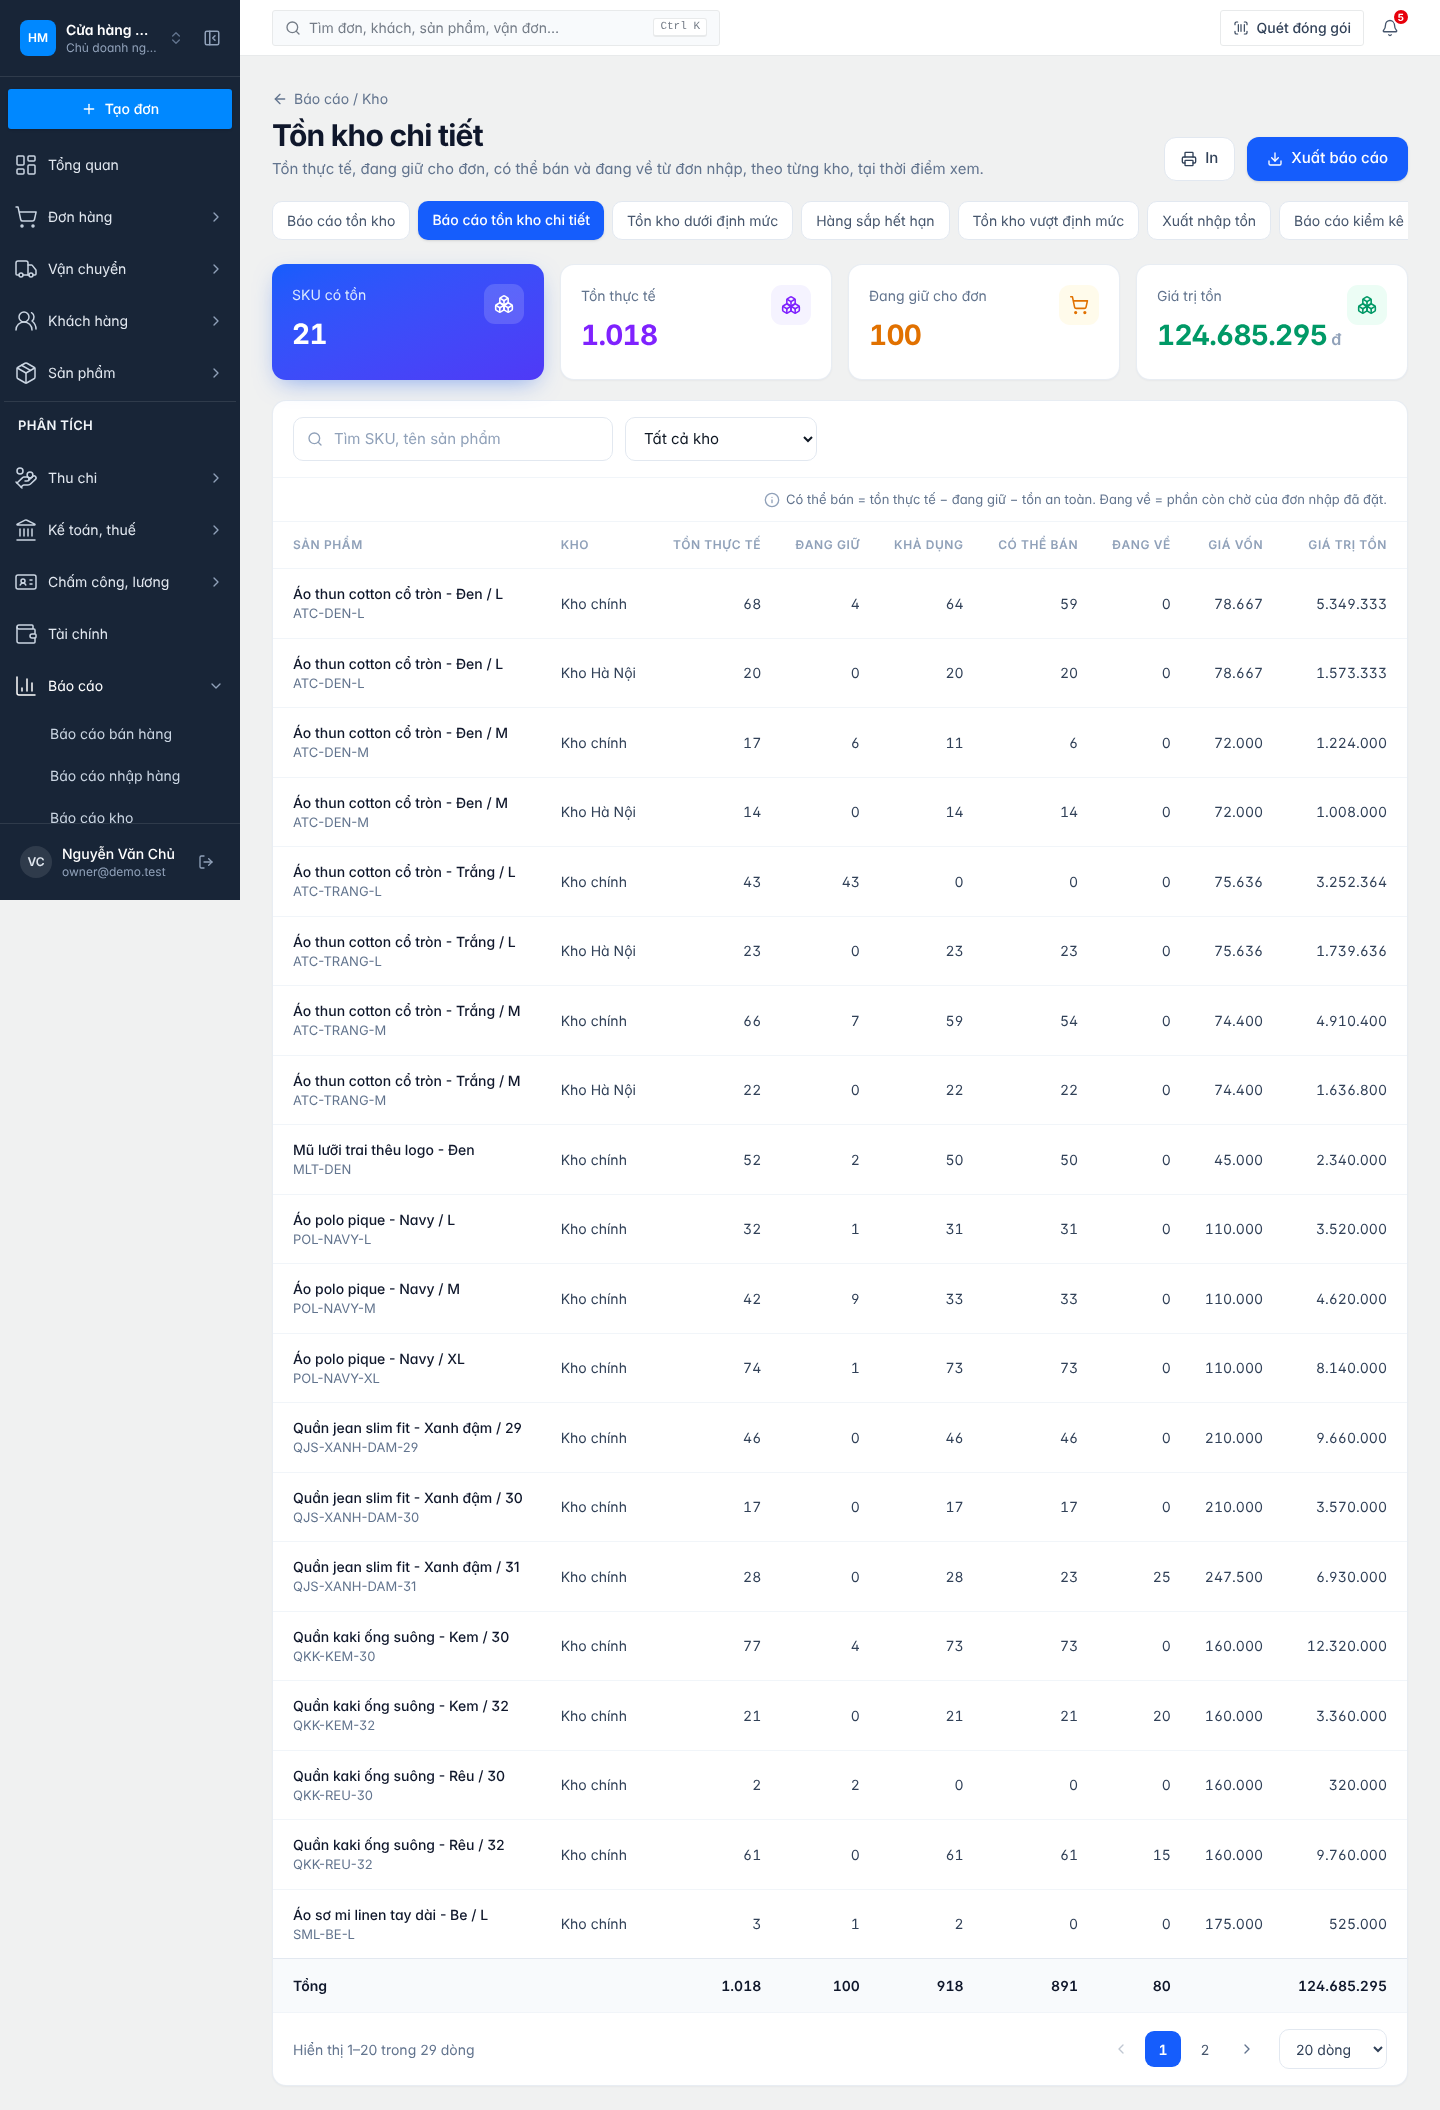
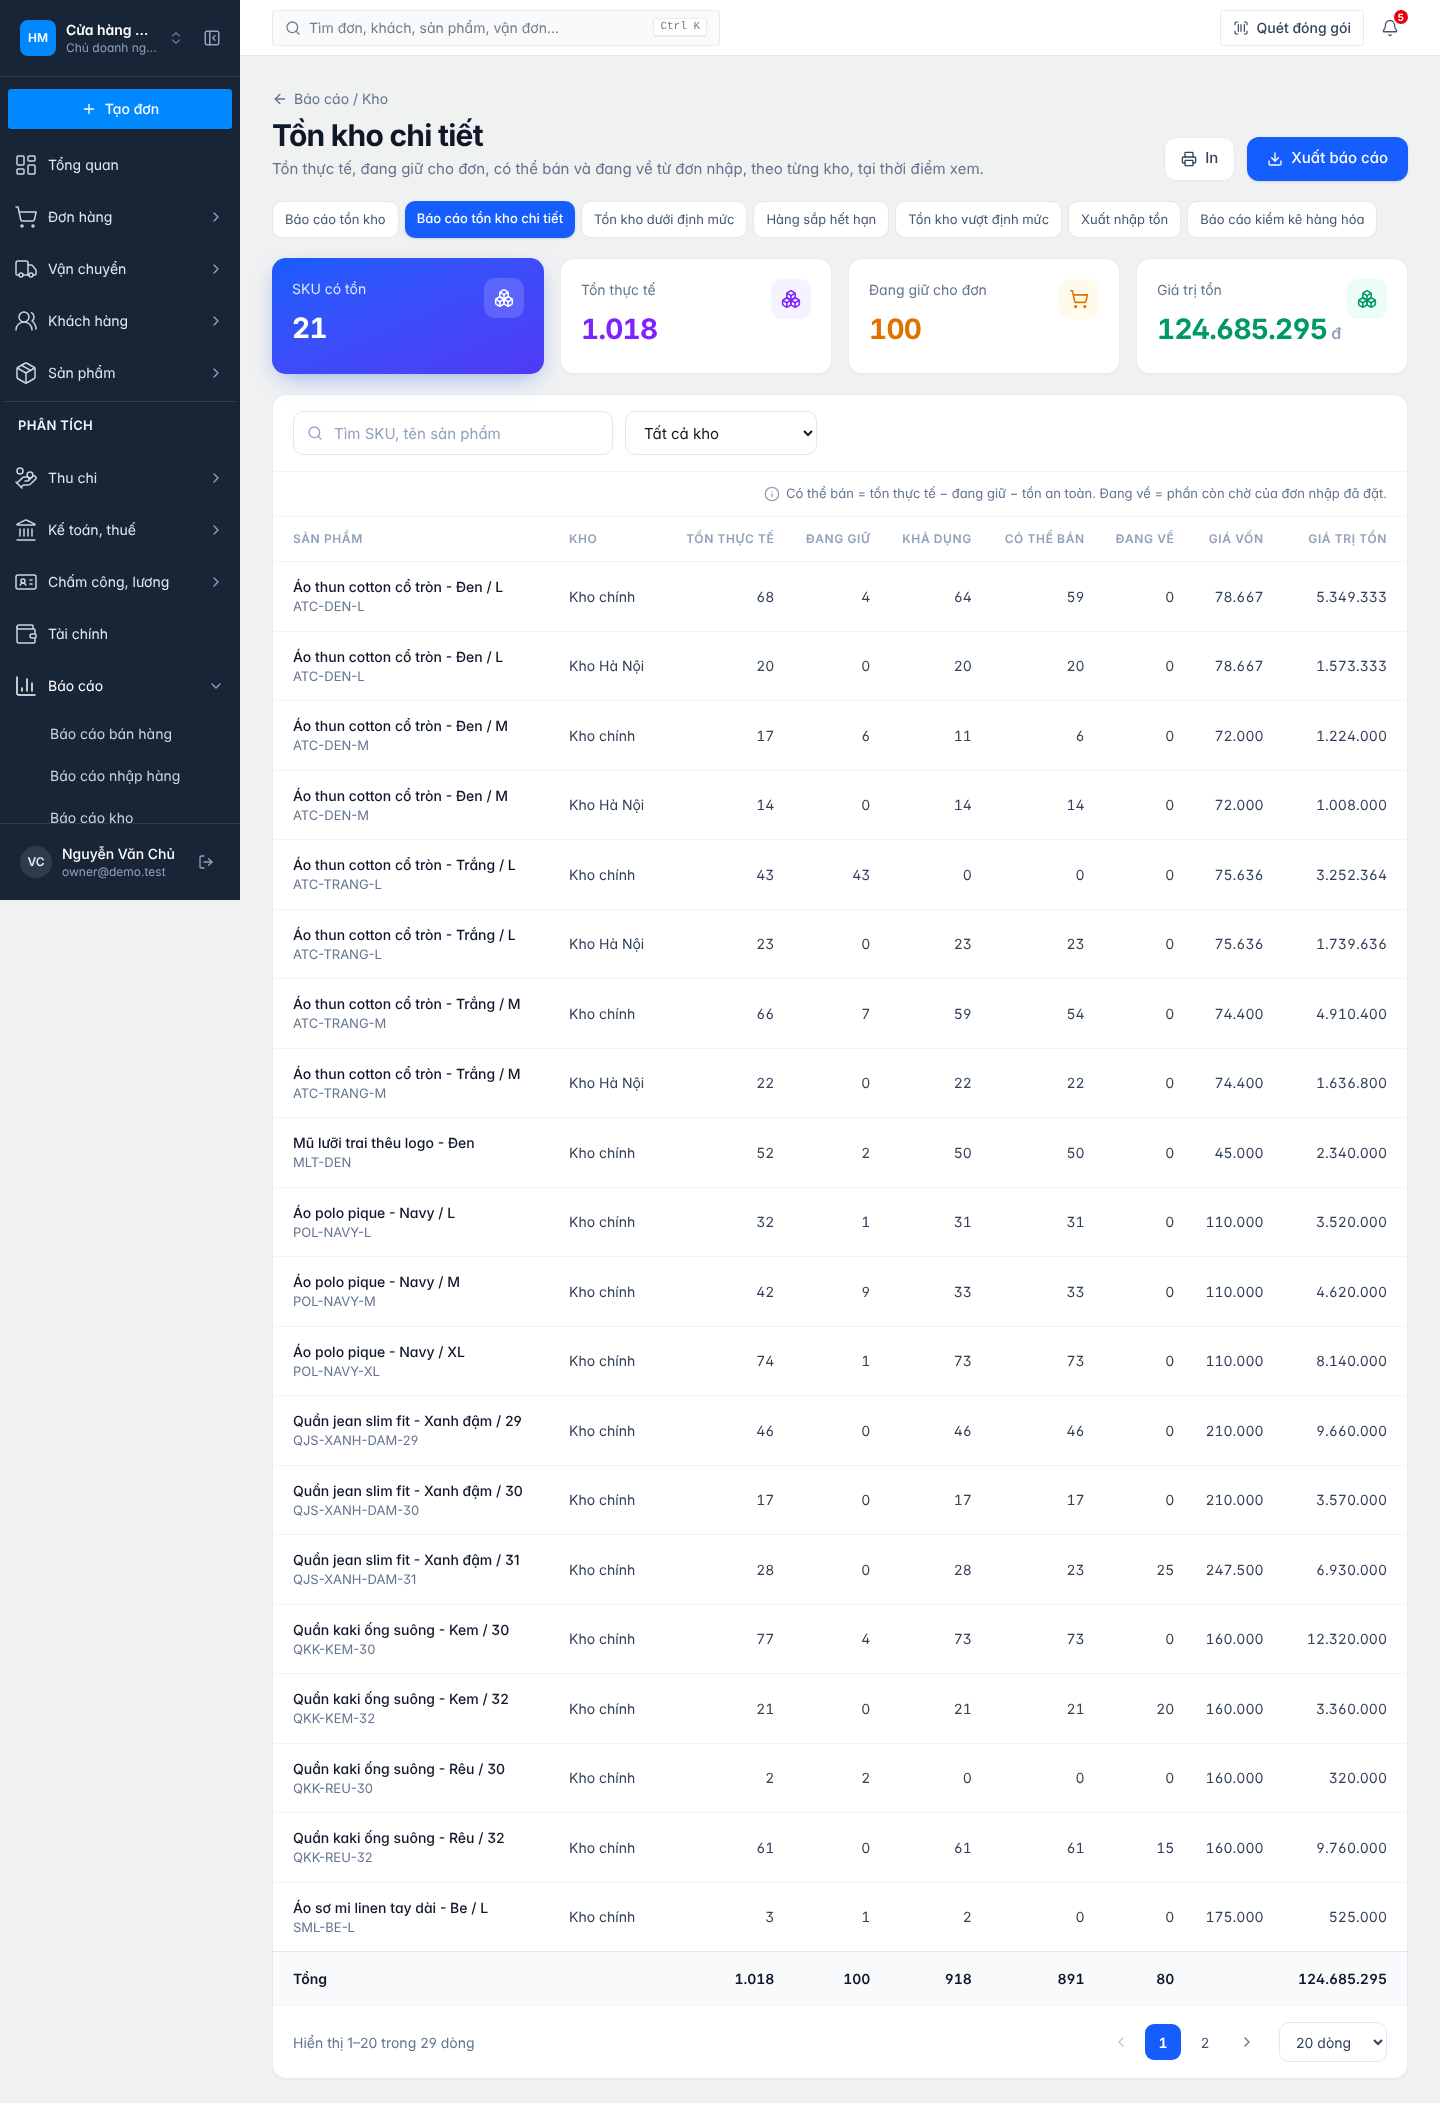
Báo cáo và Tài chính dùng hết chiều ngang, không cuộn ngang ở Full HD (#139)
* Báo cáo bán hàng theo mẫu mới: khung tab 5 nhóm, chọn kỳ nhanh, Xuất báo cáo

Claude-Session: https://claude.ai/code/session_01MAbhYwWHKQ1HpkALDeFv4L

* Báo cáo bán hàng: chữ trong thẻ Đơn hàng, Thanh toán, Trả hàng một dòng, thẳng hàng

Claude-Session: https://claude.ai/code/session_01MAbhYwWHKQ1HpkALDeFv4L

* Báo cáo: dựng lại 4 menu Nhập hàng, Kho, Tài chính, Khách hàng theo mẫu mới

- Khung chung (tiêu đề, chọn nhanh kỳ, Xuất báo cáo, tab 5 menu) + thẻ KPI, thẻ báo cáo có số liệu kỳ, cột bên.
- Nhập hàng, Kho, Tài chính, Khách hàng dùng số liệu thật từ các báo cáo sẵn có.
- Khách hàng: tab Theo kênh / Theo khu vực; tóm tắt thêm doanh thu khách quay lại, khách mua từ 3 lần.
- Sổ quỹ trả thêm thu chi theo tuần; Đơn hàng có basis=awaiting (chờ hoàn tất).

Claude-Session: https://claude.ai/code/session_01MAbhYwWHKQ1HpkALDeFv4L

* Cấu hình: giao diện mới theo kiểu Báo cáo, menu trái cho các trang con

- Trang Cấu hình: thẻ cho từng mục theo màu nhóm, thẻ sàn có chấm trạng thái, ô tìm cài đặt.
- Khung chung SettingsShell: đường dẫn, tiêu đề lớn, nút bên phải, menu trái các trang cài đặt (ẩn ở trang có bảng rộng).
- SettingsSection và Card trong Cấu hình: thẻ bo 14px, viền nhạt, tiêu đề thường.
- Danh sách mục dùng chung ở settings/catalog.ts.

Claude-Session: https://claude.ai/code/session_01MAbhYwWHKQ1HpkALDeFv4L

* Cấu hình: rebuild pages on the approved Tailwind mockups

- Hub: profile, plan, connections and menu cards; settings rows with icons;
[…]

diff --git a/resources/js/apps/tenant/pages/reports/DetailReport.vue b/resources/js/apps/tenant/pages/reports/DetailReport.vue
@@ -305,7 +305,7 @@ async function exportCsv() {
 </script>
 
 <template>
-    <div class="mx-auto max-w-[1440px] pt-2">
+    <div class="pt-2">
         <ReportDetailHead
             :title="report.title"
             :description="report.description"
@@ -441,7 +441,7 @@ async function exportCsv() {
                     <table ref="tableEl" class="w-full text-[14px]" data-testid="report-table">
                         <thead class="border-b border-slate-100 text-left text-[12px] font-semibold uppercase tracking-wider text-slate-400">
                             <tr>
-                                <th v-for="c in columns" :key="c.key" :class="cn('whitespace-nowrap px-4 py-3.5 font-semibold first:pl-5 last:pr-5', numeric(c) && 'text-right', c.bar && 'min-w-36')">{{ c.label }}</th>
+                                <th v-for="c in columns" :key="c.key" :class="cn('px-3 py-3.5 font-semibold leading-snug first:pl-5 last:pr-5', numeric(c) ? 'text-right' : 'whitespace-nowrap')">{{ c.label }}</th>
                             </tr>
                         </thead>
                         <tbody class="divide-y divide-slate-100 text-slate-700">
@@ -449,7 +449,7 @@ async function exportCsv() {
                                 <td
                                     v-for="c in columns"
                                     :key="c.key"
-                                    :class="cn('px-4 py-3.5 first:pl-5 last:pr-5', c === columns[0] && 'min-w-56', c.type === 'datetime' && 'whitespace-nowrap', numeric(c) && 'whitespace-nowrap text-right tabular-nums', cellClass(c, row))"
+                                    :class="cn('px-3 py-3.5 first:pl-5 last:pr-5', c.type === 'datetime' && 'whitespace-nowrap', numeric(c) && 'whitespace-nowrap text-right tabular-nums', cellClass(c, row))"
                                 >
                                     <div v-if="c.logo" class="flex items-center gap-3 whitespace-nowrap">
                                         <ChannelMark :kind="c.logo(row)" :name="c.sub?.(row) ?? undefined" />
@@ -461,7 +461,7 @@ async function exportCsv() {
                                     </div>
                                     <span v-else-if="c.badge?.(row)" :class="cn('inline-flex whitespace-nowrap rounded-md px-2 py-0.5 text-[13px] font-medium', badgeClass[c.badge(row)!.tone])">{{ c.badge(row)!.label }}</span>
                                     <div v-else-if="c.bar" class="flex items-center justify-end gap-3">
-                                        <span class="print-hide h-1.5 w-16 overflow-hidden rounded-full bg-slate-100">
+                                        <span class="print-hide hidden h-1.5 w-14 overflow-hidden 2xl:block rounded-full bg-slate-100">
                                             <span
                                                 :class="cn('block h-full rounded-full', Number(raw(c, row)) < 0 ? 'bg-red-500' : 'bg-emerald-500')"
                                                 :style="{ width: `${Math.min(100, Math.max(4, Math.abs(Number(raw(c, row) ?? 0))))}%` }"
@@ -483,7 +483,7 @@ async function exportCsv() {
                         </tbody>
                         <tfoot v-if="hasTotals" class="border-t border-slate-200 bg-slate-50 font-semibold text-slate-900">
                             <tr>
-                                <td v-for="(c, i) in columns" :key="c.key" :class="cn('whitespace-nowrap px-4 py-4 first:pl-5 last:pr-5', numeric(c) && 'text-right tabular-nums', i > 0 && cellClass(c, data.totals ?? {}))">
+                                <td v-for="(c, i) in columns" :key="c.key" :class="cn('whitespace-nowrap px-3 py-4 first:pl-5 last:pr-5', numeric(c) && 'text-right tabular-nums', i > 0 && cellClass(c, data.totals ?? {}))">
                                     {{ i === 0 ? (filtered ? `Tổng ${chip}` : data.truncated ? 'Tổng (toàn bộ)' : 'Tổng') : total(c) }}
                                 </td>
                             </tr>

diff --git a/resources/js/apps/tenant/layouts/AppLayout.vue b/resources/js/apps/tenant/layouts/AppLayout.vue
@@ -24,6 +24,8 @@ const auth = useAuthStore();
 const tenant = useTenantStore();
 const route = useRoute();
 const router = useRouter();
+/** Report pages use the whole width (Full HD first) so wide tables fit without sideways scrolling. */
+const wide = computed(() => route.meta.nav === 'reports' || ['finance', 'report-cashbook'].includes(String(route.name)));
 const toast = useToast();
 
 const switcherOpen = ref(false);
@@ -441,7 +443,7 @@ useGoShortcuts(
             <GlobalSearch v-model:open="searchOpen" />
             <ConnectChannelDialog v-model:open="connectOpen" :counts="shopCounts" @connected="loadShopCounts" />
             <!-- Full-bleed pages (Tin nhắn): no padding, the page fills the space under the top bar. -->
-            <main :class="route.meta.flush ? 'flex min-h-0 w-full flex-1 flex-col pb-16 lg:pb-0' : 'mx-auto w-full max-w-[1600px] flex-1 px-4 py-6 pb-28 sm:px-6 lg:px-8 lg:pb-6'">
+            <main :class="route.meta.flush ? 'flex min-h-0 w-full flex-1 flex-col pb-16 lg:pb-0' : cn('mx-auto w-full flex-1 px-4 py-6 pb-28 sm:px-6 lg:px-8 lg:pb-6', !wide && 'max-w-[1600px]')">
                 <RouterView :key="tenant.current?.id" />
             </main>
             <MobileNav @switch-tenant="switchTenant" @logout="logout" />

diff --git a/resources/js/apps/tenant/pages/reports/ReportDetailHead.vue b/resources/js/apps/tenant/pages/reports/ReportDetailHead.vue
@@ -117,12 +117,12 @@ function custom() {
                 </button>
             </div>
         </div>
-        <nav v-if="siblings.length > 1" class="mt-5 flex gap-2 overflow-x-auto pb-1" aria-label="Báo cáo cùng nhóm" data-testid="report-siblings">
+        <nav v-if="siblings.length > 1" class="mt-5 flex flex-wrap gap-1.5" aria-label="Báo cáo cùng nhóm" data-testid="report-siblings">
             <RouterLink
                 v-for="l in siblings"
                 :key="l.title"
                 :to="target(l)"
-                :class="cn('shrink-0 whitespace-nowrap rounded-[10px] px-3.5 py-2 text-[14px]', isCurrent(l) ? 'bg-blue-600 font-medium text-white shadow-sm' : 'border border-slate-200 bg-white text-slate-600 hover:border-blue-300 hover:text-blue-700')"
+                :class="cn('shrink-0 whitespace-nowrap rounded-[10px] px-3 py-2 text-[13px]', isCurrent(l) ? 'bg-blue-600 font-medium text-white shadow-sm' : 'border border-slate-200 bg-white text-slate-600 hover:border-blue-300 hover:text-blue-700')"
             >
                 {{ l.title }}
             </RouterLink>

diff --git a/resources/js/apps/tenant/pages/reports/SalesReport.vue b/resources/js/apps/tenant/pages/reports/SalesReport.vue
@@ -152,7 +152,7 @@ const thing = computed(() => ({ day: 'Ngày', channel: 'Kênh', staff: 'Nhân vi
 </script>
 
 <template>
-    <div class="mx-auto max-w-[1440px] pt-2">
+    <div class="pt-2">
         <ReportDetailHead
             :title="TITLES[by]"
             description="Doanh thu đã ghi nhận, giá vốn, phí sàn và lãi. Cùng một khung cho theo ngày, kênh, nhân viên, khách hàng và kho."

diff --git a/resources/js/apps/tenant/pages/reports/Cashbook.vue b/resources/js/apps/tenant/pages/reports/Cashbook.vue
@@ -203,7 +203,7 @@ const money = (v: number) => formatNumber(Math.round(v));
 </script>
 
 <template>
-    <div class="mx-auto max-w-[1440px] pt-2">
+    <div class="pt-2">
         <ReportDetailHead
             title="Sổ quỹ"
             description="Tiền thu từ khách, hoàn tiền, chi trả nhà cung cấp và các phiếu thu chi; tồn quỹ đầu và cuối kỳ của từng quỹ."

diff --git a/resources/js/apps/tenant/pages/reports/ProfitLoss.vue b/resources/js/apps/tenant/pages/reports/ProfitLoss.vue
@@ -160,7 +160,7 @@ const card = 'rounded-[14px] border border-slate-200/80 bg-white shadow-[0_1px_2
 </script>
 
 <template>
-    <div class="mx-auto max-w-[1440px] pt-2">
+    <div class="pt-2">
         <ReportDetailHead
             title="Báo cáo lãi lỗ"
             description="Doanh thu, chi phí và lợi nhuận của kỳ đang xem, đặt cạnh kỳ trước có cùng số ngày."

diff --git a/resources/js/apps/tenant/pages/reports/StockLedgerReport.vue b/resources/js/apps/tenant/pages/reports/StockLedgerReport.vue
@@ -112,7 +112,7 @@ const pageList = computed<(number | '…')[]>(() => {
 </script>
 
 <template>
-    <div class="mx-auto max-w-[1440px] pt-2">
+    <div class="pt-2">
         <ReportDetailHead
             title="Xuất nhập tồn"
             description="Tồn đầu kỳ, nhập, xuất và tồn cuối kỳ của từng sản phẩm, lấy trực tiếp từ sổ kho."

diff --git a/resources/js/apps/tenant/pages/reports/ProductReports.vue b/resources/js/apps/tenant/pages/reports/ProductReports.vue
@@ -109,7 +109,7 @@ function exportCsv() {
 </script>
 
 <template>
-    <div class="mx-auto max-w-[1440px] pt-2">
+    <div class="pt-2">
         <ReportDetailHead
             title="Bán chạy, bán chậm"
             description="Sản phẩm bán chạy trong kỳ và hàng tồn lâu không bán được."

diff --git a/resources/js/apps/tenant/pages/finance/Finance.vue b/resources/js/apps/tenant/pages/finance/Finance.vue
@@ -110,7 +110,7 @@ function exportCsv() {
 </script>
 
 <template>
-    <div class="mx-auto max-w-[1440px] pt-2">
+    <div class="pt-2">
         <div class="mb-5">
             <div class="flex flex-wrap items-end justify-between gap-4">
                 <div class="min-w-0">
